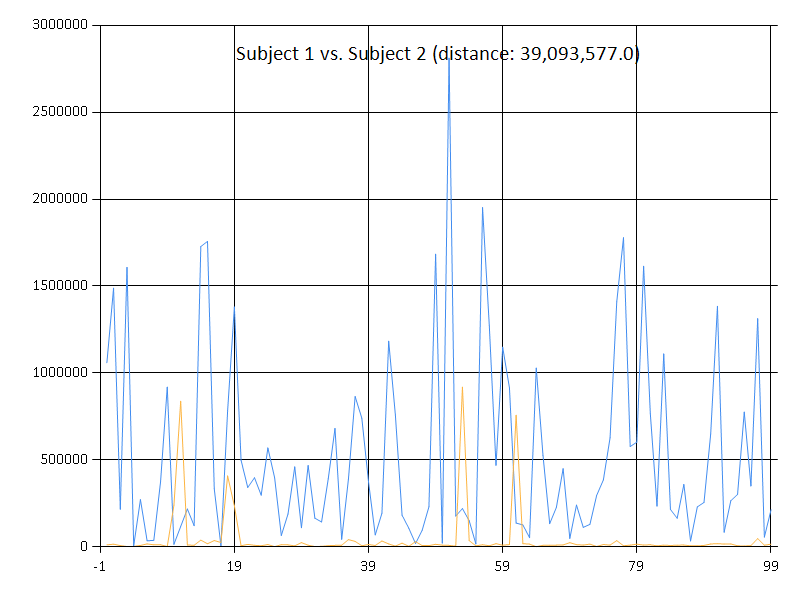
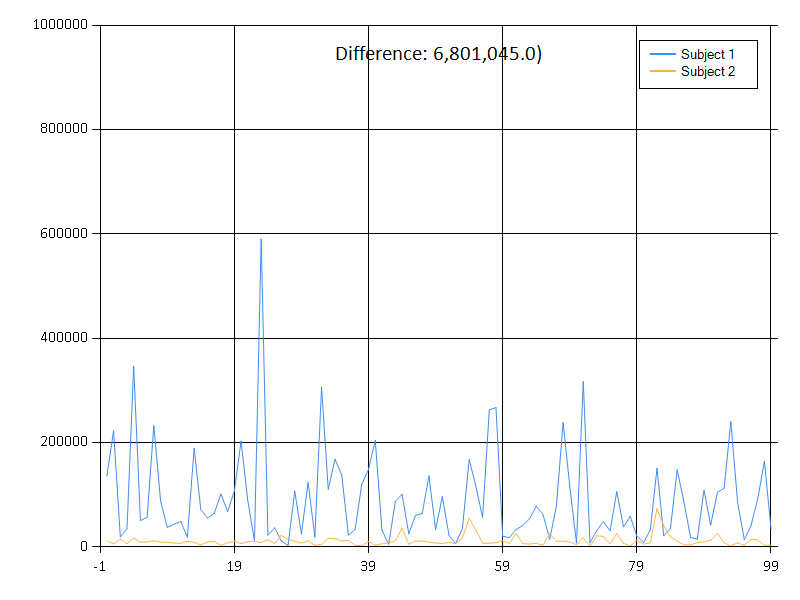
dtw posts

diff --git a/source/_posts/F-and-Dynamic-Time-Warping.md b/source/_posts/F-and-Dynamic-Time-Warping.md
@@ -12,74 +12,84 @@ tags:
 - Similarity
 ---
 
-Today I look at using [F#](http://fsharp.org/) with the [NDtw](https://github.com/doblak/ndtw) package.  This is so I can play with some [Dynamic_time_warping](https://en.wikipedia.org/wiki/Dynamic_time_warping).  If you're not familar with it, 
+Today I look at using [F#](http://fsharp.org/) with the [NDtw](https://github.com/doblak/ndtw) package.  This is so I can play with some [dynamic time warping](https://en.wikipedia.org/wiki/Dynamic_time_warping).  In case you're not familar with DTW, the TLDR version is that it is a method to compare timeseries data that can differ in frequency.  This allows for a more nuanced data comparison that can capture shifted, compressed, and extended patterns.  It's a fun little algorithm to use and worth reading more about.
 
-[EEG](https://www.kaggle.com/wanghaohan/eeg-brain-wave-for-confusion)
-
+Onto the data. I've pulled an [EEG](https://www.kaggle.com/wanghaohan/eeg-brain-wave-for-confusion) dataset from Kaggle.  I've also included a copy [here](/data/EEG_data.zip) for posterity sake.  It contains EEG data of subjects watching short videos.  The goal of the dataset is mental state classification.  I won't be doing that here, but I can see using DTW as a method to facilitate classification based on channel smiliarties.
 
 Using [Paket](https://github.com/fsprojects/Paket), here is a sample paket.dependencies file.
 
 {% codeblock lang:fsharp %}
 source https://nuget.org/api/v2
 nuget FSharp.Charting
+nuget FSharp.Data
 nuget NDtw
 {% endcodeblock %}
 
-Here is some of the basic setup stuff.
+Here is my standard boilerplate code, along with the VideoId that I will be using for testing.  As a note, all of the data columns are floats, including the subject and video ids.  If I was doing something more serious I'd be inclined to convert these, but do do something quick I'll deal with it.
 
 {% codeblock lang:fsharp %}
 #r "../packages/FSharp.Charting/lib/net40/FSharp.Charting.dll"
+#r "../packages/FSharp.Data/lib/net40/FSharp.Data.dll"
 #r "../packages/ndtw/lib/net40/ndtw.dll"
 #load "../packages/FSharp.Charting/FSharp.Charting.fsx"
 
 open System
 open System.IO
 open FSharp.Charting
+open FSharp.Data
 open NDtw
 
-// Limit to only video 3
-let videoIdFilter = 3.
+// Limit to only video 6
+let videoIdFilter = 6. 
 {% endcodeblock %}
 
-Load data from the csv file.
+Load data using a type provider.  Since the file doesn't have headers, I'll use Schema to define the column names.  As a note, the ```[<Literal>]``` attribute on eegDataFile is so I can use the string in the CsvProvider.
 
 {% codeblock lang:fsharp %}
-let allData = 
-    Path.Combine(__SOURCE_DIRECTORY__, @"..\\data\\eeg\\eeg_data.csv")
-    |> File.ReadLines
-    |> Seq.map (fun x ->x.Split ',')
-    |> Seq.map (fun x -> Array.map (fun y -> float(y)) x)
+[<Literal>]
+let eegDataFile = "..\\data\\eeg\\eeg_data.csv"
+
+type EegData = CsvProvider<eegDataFile, HasHeaders = false, Schema = "SubjectID,VideoID,Attention,Mediation,RawEEG,Delta,Theta,Alpha1,Alpha2,Beta1,Beta2,Gamma1,Gamma2,PredefinedLabel,UserDefinedLabel">
+
+let fileData = EegData.Load eegDataFile
+let allData = fileData.Rows 
+
+let subjectIds = fileData.Rows |> Seq.map (fun x -> x.SubjectID) |> Seq.distinct 
+{% endcodeblock %}
+
+
+I now create a function to extract subject and video specific rows from the dataset.  I also reduce the dataset to a single value for the signal.  I've decided to use the Theta channel.  This is arbitrary, but is primarily due to this quote from the dataset's Kaggle page "Past research has indicated that Theta signal is correlated with confusion level."  This leads me to believe it might be the most likely channel to find interesting comparisons.  So the resulting charts are easier to read, I limit the dataset to the first 100 rows of data per subject/video combination.
+
+{% codeblock lang:fsharp %}
+// Get subject & video specific data, only pull the first 100 records of the dataset
+let dataset subjectId videoId = 
+    allData
+    |> Seq.filter(fun x -> x.SubjectID = subjectId && x.VideoID = videoId)
+    |> Seq.map (fun x -> x.Theta) 
+    |> Seq.take 100
     |> Seq.toList
 {% endcodeblock %}
 
-I now create a function to extract subject and video specific rows from the dataset.  Column 0 is the UserId, Column 1 is the VideoId, and Column 5 is the Raw EEG data.  I also limit the dataset to 100 records.  I only do this to make the resulting charts easier to read. 
+Here is the dynamic time warping distance calculation function.  The call is straight foward.  After all this setup its almost anticlimatic. It expects 2 parameters, both being an array of values. 
 
 {% codeblock lang:fsharp %}
-// col0 = subject, col1=video, column5=raw eeg
-let dataset subjectId videoId = 
-    allData
-    |> List.filter(fun x -> x.[0] = subjectId && x.[1] = videoId)
-    |> List.map (fun x -> x.[5]) 
-    |> List.take 100
-{% endcodeblock %}
-
-Here is the dynamic time warping distance calculation function.  The call is straight foward.  
-
-{% codeblock lang:fsharp %}
-let distance (a:float list) (b:float list) = 
+// Get the distance between two signals
+let distance (a:float seq) (b:float seq) = 
     let dtw = new Dtw(
-        a |> List.toArray,
-        b |> List.toArray)
+        a |> Seq.toArray,
+        b |> Seq.toArray)
     dtw.GetCost()
 {% endcodeblock %}
 
-The NDtw library allows for a more complicated DTW call if so desired.  I've made an alternate distance function using the more complex version.
+
+The NDtw library allows for a more complicated DTW call if so desired.  I've made an alternate distance function using the more complex version.  As an example, it allows for different distance calculations: Euclidean, Manhattan, Maximum, SquaredEuclidean. It also allows for limitations how much the path diverges from the standard path.
 
 {% codeblock lang:fsharp %}
-let distance2 (a:float list) (b:float list) = 
+// Get the distance between two signals (using more advanced dtw call)
+let distanceAdvanced (a:float seq) (b:float seq) = 
     let dtw = new Dtw(
-        a |> List.toArray,
-        b |> List.toArray,
+        a |> Seq.toArray,
+        b |> Seq.toArray,
         DistanceMeasure.Euclidean,
         true, // boundaryConstraintStart 
         true, // boundaryConstraintEnd
@@ -87,50 +97,103 @@ let distance2 (a:float list) (b:float list) =
         Nullable<int>(2), // slopStepSizeAside
         Nullable<int>(2)) // sakoeChibaMaxShift
     dtw.GetCost()
-
-(*
-Possible distance measures: 
-DistanceMeasure.Euclidean,
-DistanceMeasure.Manhattan,
-DistanceMeasure.Maximum,
-DistanceMeasure.SquaredEuclidean,
-*)
 {% endcodeblock %}
+
+As a short aside, the library offers a couple other bits of useful functionality that I am not using right now, but worth mentioning.
+
+{% codeblock lang:fsharp %}
+// Example comparison of 2 small datasets
+let exampleDtw = new Dtw(
+    [| 1.; 3.; 7.; 8.; 11.;  6.; 6.; |],
+    [| 3.; 6.; 3.; 7.; 13.; 12.; 7.; |])
+
+
+// Get the coordinate path used for the best match between the datasets
+exampleDtw.GetPath()
+
+val it : (int * int) [] =
+  [|(0, 0); (1, 1); (1, 2); (2, 3); (3, 3); (4, 4); (4, 5); (5, 6); (6, 6)|]
+
+
+// Get the matrix of distance comparisons on a point by point basis
+exampleDtw.GetDistanceMatrix()
+
+val it : float [] [] =
+  [|[|2.0; 5.0; 2.0; 6.0; 12.0; 11.0; 6.0; 0.0|];
+    [|0.0; 3.0; 0.0; 4.0; 10.0; 9.0; 4.0; 0.0|];
+    [|4.0; 1.0; 4.0; 0.0; 6.0; 5.0; 0.0; 0.0|];
+    [|5.0; 2.0; 5.0; 1.0; 5.0; 4.0; 1.0; 0.0|];
+    [|8.0; 5.0; 8.0; 4.0; 2.0; 1.0; 4.0; 0.0|];
+    [|3.0; 0.0; 3.0; 1.0; 7.0; 6.0; 1.0; 0.0|];
+    [|3.0; 0.0; 3.0; 1.0; 7.0; 6.0; 1.0; 0.0|];
+    [|0.0; 0.0; 0.0; 0.0; 0.0; 0.0; 0.0; 0.0|]|]
+
+
+// Get the matrix of cost (aka difference) between the datasets 
+exampleDtw.GetCostMatrix()
+
+val it : float [] [] =
+  [|[|11.0; 11.0; 8.0; 16.0; 28.0; 22.0; 17.0; infinity|];
+    [|9.0; 9.0; 6.0; 10.0; 22.0; 16.0; 11.0; infinity|];
+    [|15.0; 11.0; 10.0; 6.0; 13.0; 12.0; 7.0; infinity|];
+    [|18.0; 13.0; 11.0; 6.0; 8.0; 7.0; 7.0; infinity|];
+    [|26.0; 22.0; 17.0; 9.0; 5.0; 3.0; 6.0; infinity|];
+    [|21.0; 18.0; 18.0; 15.0; 14.0; 7.0; 2.0; infinity|];
+    [|21.0; 18.0; 18.0; 15.0; 14.0; 7.0; 1.0; infinity|];
+    [|infinity; infinity; infinity; infinity; infinity; infinity; infinity; infinity|]|]
+
+
+// Get difference between datasets
+exampleDtw.GetCost()
+
+val it : float = 11.0
+{% endcodeblock %}
+
+
+Back to the task at hand, I build a function to compare each subject's signal against each other subject's signal.  Then I get the best match I can find and store the results in subject1, subject2, and difference.
+
 
 {% codeblock lang:fsharp %}
 // Compare each subject against every other subject
 let comparisons = 
-    [0. .. 9.]
-    |> List.map (fun x -> 
-        [0. .. 9.]
-        |> List.filter (fun y -> y <> x)
-        |> List.map (fun y -> 
-            let d = distance (dataset x 1.0) (dataset y videoIdFilter)
+    subjectIds
+    |> Seq.map (fun x -> 
+        subjectIds
+        |> Seq.filter (fun y -> y <> x)
+        |> Seq.map (fun y -> 
+            let d = distance (dataset x videoIdFilter) (dataset y videoIdFilter)
             (x, y, d)))
-    |> List.concat
-    |> List.sortBy (fun (_, _, d) -> d)
+    |> Seq.concat
+    |> Seq.sortBy (fun (_, _, d) -> d)
 
 let (subject1, subject2, difference) = 
     comparisons
-    |> List.take 1
-    |> List.exactlyOne
+    |> Seq.take 1
+    |> Seq.exactlyOne
 {% endcodeblock %}
 
 For visualization purposes, I create a comparison chart for each subject against Subject 1.  Then I save the charts to files.
 
 {% codeblock lang:fsharp %}
+Chart.Combine([
+    Chart.FastLine(dataset subject1 videoIdFilter, Name=sprintf "Subject %1.0f" subject1).WithLegend(true);
+    Chart.FastLine(dataset subject2 videoIdFilter, Name=sprintf "Subject %1.0f" subject2).WithLegend(true)])
+|> Chart.WithTitle(String.Format("Difference: {0:n1}", difference))
+|> Chart.Show
+
 // Show comparison charts
 comparisons
 // Only include matches against subject1
-|> List.filter (fun (s1, s2, d) -> s1 = subject1)
+|> Seq.filter (fun (s1, s2, d) -> s1 = subject1)
 // Exclude subject1 vs. subject1
-|> List.filter (fun (s1, s2, d) -> s2 <> subject1)
+|> Seq.filter (fun (s1, s2, d) -> s2 <> subject1)
 // Chart each pair
-|> List.iter (fun (s1, s2, d) -> 
+|> Seq.iter (fun (s1, s2, d) -> 
     Chart.Combine([
-        Chart.FastLine(dataset s1 1.0);
-        Chart.FastLine(dataset s2 1.0)])
-    |> Chart.WithTitle(String.Format("Subject {0:n0} vs. Subject {1:n0} (distance: {2:n1})", s1, s2, d))
+        Chart.FastLine(dataset s1 videoIdFilter, Name=sprintf "Subject %1.0f" s1).WithLegend(true);
+        Chart.FastLine(dataset s2 videoIdFilter, Name=sprintf "Subject %1.0f" s2).WithLegend(true)])
+    |> Chart.WithTitle(String.Format("Difference: {0:n1})", d))
+    |> Chart.WithYAxis(Min = 0., Max = 1000000.)
     |> Chart.Save (Path.Combine(__SOURCE_DIRECTORY__, String.Format(@"..\\data\\eeg\\chart_{0:n0}_{1:n0}.png", s1, s2)))
     //|> Chart.Show
     )
@@ -139,43 +202,44 @@ comparisons
 Here are the top couple matches, in the format (subject1, subject2, distance).
 
 {% codeblock lang:fsharp %}
-(float * float * float) list =
-[
-(1.0, 4.0, 26727187.0); 
-(6.0, 0.0, 28741980.0); 
-(3.0, 4.0, 29468040.0);
-(6.0, 4.0, 30171222.0); 
-(8.0, 4.0, 31123338.0); 
-(3.0, 0.0, 31511006.0);
-(4.0, 0.0, 31697843.0); 
+// Show distances for our winner 
+comparisons
+|> Seq.filter (fun (s1, _, _) -> s1 = 1.0)
+|> Seq.sortBy (fun (_, _, d) -> d)
+|> Seq.iter (fun (s1, s2, d) -> printfn "%1.0f %1.0f %10.1f" s1 s2 d)
+
+1 7  4442366.0
+1 4  5256824.0
+1 2  6801045.0
+1 9  9462037.0
+1 8 11714938.0
+1 0 12763188.0
 ...
-]
 {% endcodeblock %}
 
 Here is the top signal match.
 
-![Best Match](/images/dtw1/chart_1_4.png)
+![Best Match](/images/dtw1/chart_1_7.png)
 
 Here are the other subjects compared to subject 1.
 
-![1 and 0](/images/dtw1/chart_1_0.png)
+![Comparison: Signal 1 and Signal 4](/images/dtw1/chart_1_4.png)
 
-![1 and 2](/images/dtw1/chart_1_2.png)
+![Comparison: Signal 1 and Signal 2](/images/dtw1/chart_1_2.png)
 
-![1 and 3](/images/dtw1/chart_1_3.png)
+![Comparison: Signal 1 and Signal 9](/images/dtw1/chart_1_9.png)
 
-![1 and 5](/images/dtw1/chart_1_5.png)
+![Comparison: Signal 1 and Signal 8](/images/dtw1/chart_1_8.png)
 
-![1 and 6](/images/dtw1/chart_1_6.png)
+![Comparison: Signal 1 and Signal 0](/images/dtw1/chart_1_0.png)
 
-![1 and 7](/images/dtw1/chart_1_7.png)
+![Comparison: Signal 1 and Signal 6](/images/dtw1/chart_1_6.png)
 
-![1 and 8](/images/dtw1/chart_1_8.png)
+![Comparison: Signal 1 and Signal 3](/images/dtw1/chart_1_3.png)
 
-![1 and 9](/images/dtw1/chart_1_9.png)
+![Comparison: Signal 1 and Signal 5](/images/dtw1/chart_1_5.png)
 
-
-
+There is it.  The best match it can find is between subjects 1 and 7, although 1 and 4 are a close second. This has been a fun experiment.  Until next time.
 
 
 

diff --git a/source/_posts/Dynamic-Time-Warping-an-F-Implementation.md b/source/_posts/Dynamic-Time-Warping-an-F-Implementation.md
@@ -97,7 +97,7 @@ let myDtwArray2D_A (d1:float[]) (d2:float[]) =
     path.[n,m]
 {% endcodeblock %}
 
-Here is my first pass.  Again, I ran this multiple times, and this is a representative result. And ouch.  I know functional languages have a reputation for slower performance, but we need to be able to do better.  Not ony is it slower, but the GC #s are 10x worse than my baseline. 
+Here is my first pass.  Again, I ran this multiple times, and this is a representative result. And ouch.  I know functional languages have a reputation for slower performance, but I need to be able to do better.  Not ony is it slower, but the GC #s are 10x worse than my baseline. 
 
 {% codeblock lang:fsharp %}
 let cost = myDtwArray2D_A ibmData fordData
